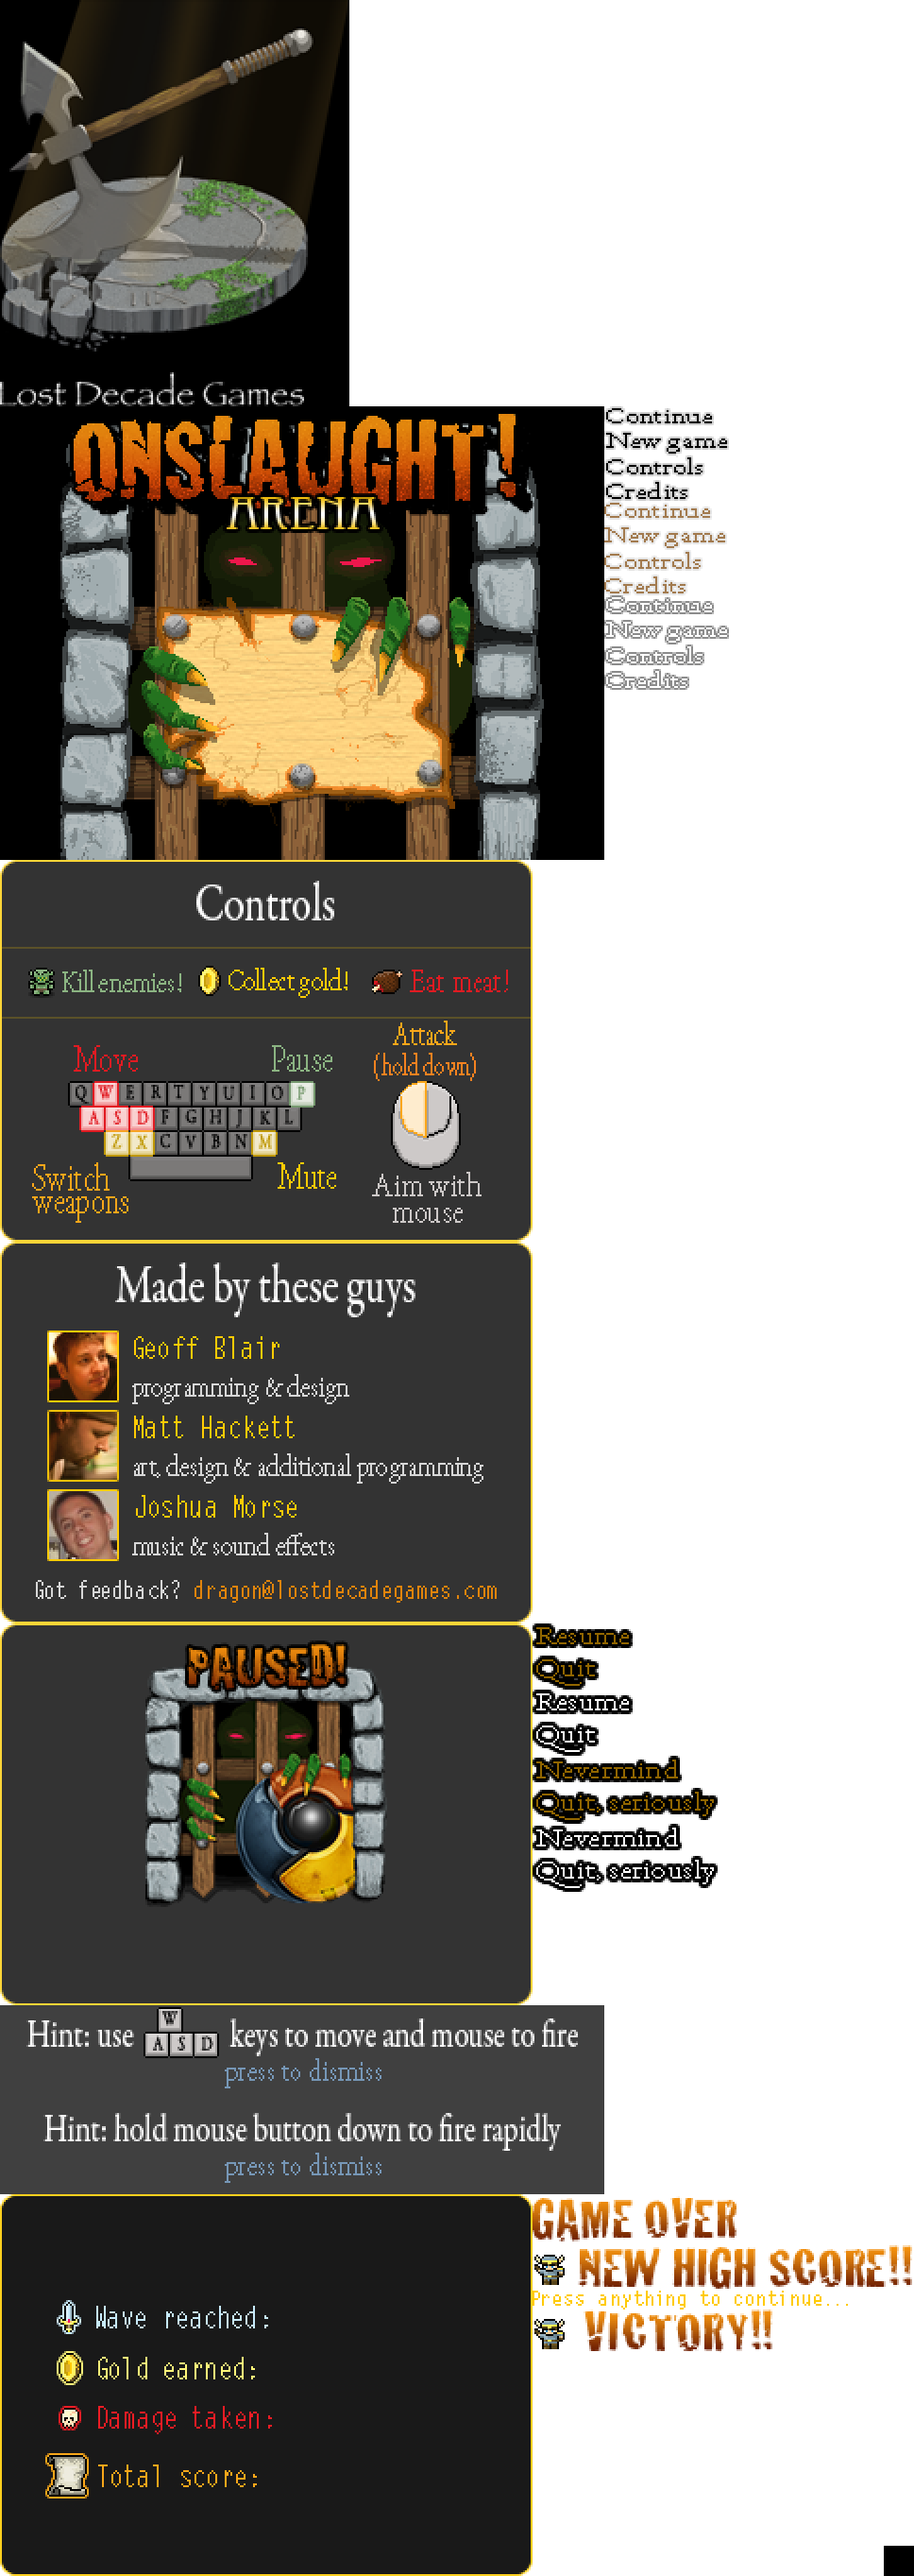
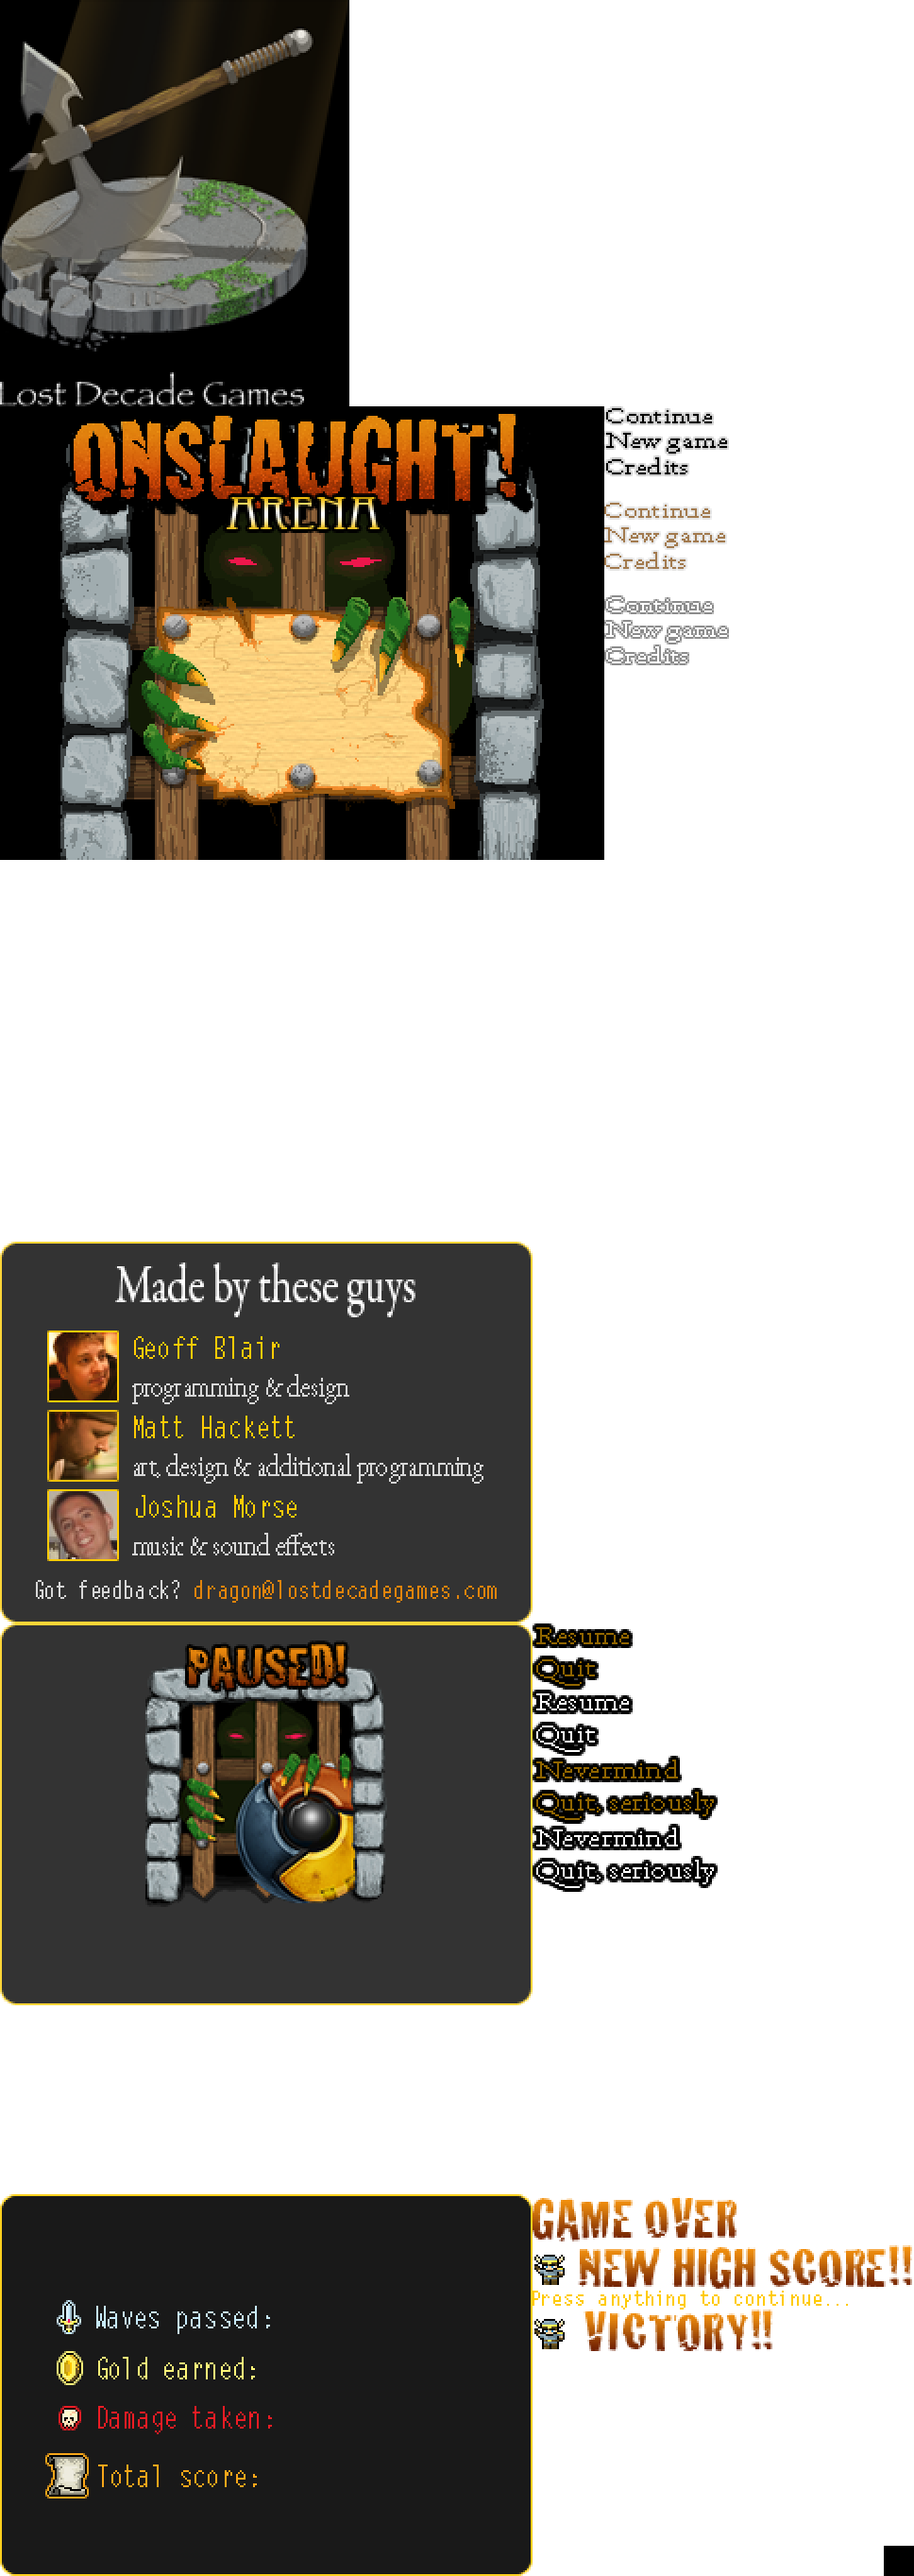
fixes #139

Changed region(s): [[0.0, 0.3118, 0.5888, 0.4989], [0.0, 0.7795, 0.6818, 0.9043], [0.6508, 0.1559, 0.7748, 0.2806]]

diff --git a/htdocs/js/engine.js b/htdocs/js/engine.js
@@ -1320,11 +1320,6 @@ proto.update = function horde_Engine_proto_update () {
 			this.render();
 			break;
 
-		case "how_to_play":
-			this.handleInput();
-			this.render();
-			break;
-
 		case "credits":
 			this.handleInput();
 			this.render();
@@ -2499,25 +2494,13 @@ proto.handleInput = function horde_Engine_proto_handleInput () {
 			}
 		}
 
-		// Controls
-		startY += POINTER_HEIGHT;
-		if (
-			(mouseV.x >= startX && mouseV.x <= stopX)
-			&& (mouseV.y >= startY && mouseV.y < (startY + 20))
-		) {
-			if (this.mouse.hasMoved && this.pointerY !== 2) newPointerY = 2;
-			if (this.mouse.isButtonDown(buttons.LEFT)) {
-				this.keyboard.keyStates[keys.SPACE] = true;
-			}
-		}
-
 		// Credits
 		startY += POINTER_HEIGHT;
 		if (
 			(mouseV.x >= startX && mouseV.x <= stopX)
 			&& (mouseV.y >= startY && mouseV.y < (startY + 20))
 		) {
-			if (this.mouse.hasMoved && this.pointerY !== 3) newPointerY = 3;
+			if (this.mouse.hasMoved && this.pointerY !== 2) newPointerY = 2;
 			if (this.mouse.isButtonDown(buttons.LEFT)) {
 				this.keyboard.keyStates[keys.SPACE] = true;
 			}
@@ -2542,17 +2525,16 @@ proto.handleInput = function horde_Engine_proto_handleInput () {
 							player.load(checkpointHero);
 						}
 						this.continuing = true;
+						this.showTutorial = false;
 						this.state = "intro_cinematic";
 					}
 					break;
 				case 1: // New game
 					this.continuing = false;
+					this.showTutorial = true;
 					this.state = "intro_cinematic";
 					break;
-				case 2: // Controls
-					this.state = "how_to_play";
-					break;
-				case 3: // Credits
+				case 2: // Credits
 					this.state = "credits";
 					break;
 			}
@@ -2563,7 +2545,7 @@ proto.handleInput = function horde_Engine_proto_handleInput () {
 
 	if (
 		(this.state === "credits")
-		|| (this.state === "how_to_play")
+		//|| (this.state === "how_to_play")
 	) {
 		if (this.keyboard.isAnyKeyPressed() || this.mouse.isAnyButtonDown()) {
 			kb.clearKeys();
@@ -2580,7 +2562,6 @@ proto.handleInput = function horde_Engine_proto_handleInput () {
 			var player = this.getPlayerObject();
 			this.woundsTo = player.wounds;
 			this.currentMusic = "normal_battle_music";
-			this.showTutorial = true;
 			horde.sound.play(this.currentMusic);
 		}
 	}
@@ -2677,6 +2658,7 @@ proto.handleInput = function horde_Engine_proto_handleInput () {
 			this.heroFiring = true;
 			this.heroFiringDirection = v;
 			this.nextTutorial(4);
+			this.showReticle = true;
 		} else if (shoot.x !== 0 || shoot.y !== 0) {
 			this.objectAttack(player, shoot);
 			this.heroFiring = true;
@@ -2850,12 +2832,6 @@ proto.render = function horde_Engine_proto_render () {
 			this.drawTitle(ctx);
 			this.drawPointer(ctx);
 			this.drawTitlePointerOptions(ctx);
-			break;
-
-		// Controls
-		case "how_to_play":
-			this.drawTitle(ctx);
-			this.drawHowToPlay(ctx);
 			break;
 
 		// Credits
@@ -3604,27 +3580,19 @@ proto.drawTitlePointerOptions = function horde_Engine_proto_drawTitlePointerOpti
 	);
 
 	// New game
-	spriteY = ((this.pointerY == 1) ? 655 : 456);
+	spriteY = ((this.pointerY == 1) ? 656 : 456);
 	ctx.drawImage(
 		this.preloader.getImage("ui"),
 		640, spriteY, 132, 26,
 		POINTER_X, (startY + POINTER_HEIGHT), 132, 26
 	);
 
-	// Controls
-	spriteY = ((this.pointerY == 2) ? 681 : 482);
-	ctx.drawImage(
-		this.preloader.getImage("ui"),
-		640, spriteY, 106, 22,
-		POINTER_X, (startY + (POINTER_HEIGHT * 2)), 106, 22
-	);
-
 	// Credits
-	spriteY = ((this.pointerY == 3) ? 708 : 508);
+	spriteY = ((this.pointerY == 2) ? 682 : 482);
 	ctx.drawImage(
 		this.preloader.getImage("ui"),
 		640, spriteY, 90, 22,
-		POINTER_X, (startY + (POINTER_HEIGHT * 3)), 90, 22
+		POINTER_X, (startY + (POINTER_HEIGHT * 2)), 90, 22
 	);
 
 };
@@ -3680,11 +3648,11 @@ proto.initOptions = function () {
 
 			if (this.canContinue()) {
 				this.pointerY = 0;
-				this.numPointerOptions = 3;
+				this.numPointerOptions = 2;
 				this.pointerOptionsStart = 0;
 			} else {
 				this.pointerY = 1;
-				this.numPointerOptions = 3;
+				this.numPointerOptions = 2;
 				this.pointerOptionsStart = 1;
 			}
 			break;
